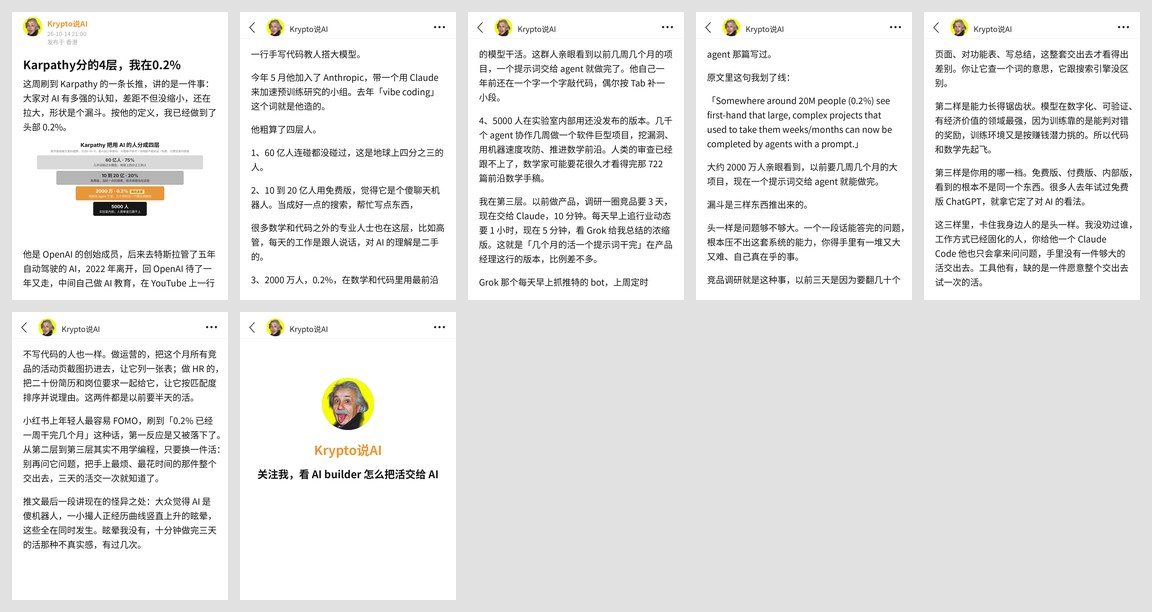
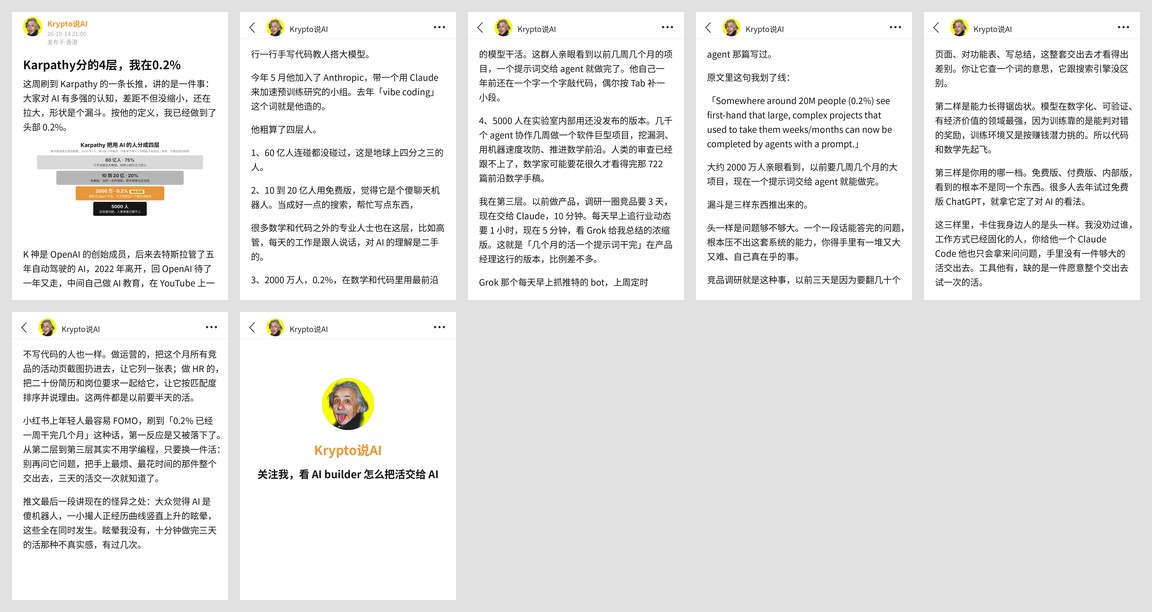
Karpathy 漏斗稿：履历段开头改 K 神
Claude-Session: https://claude.ai/code/session_01QnHH8YpEqNgD4xeX46mZ1k

Changed region(s): [[0.0, 0.4036, 0.1875, 0.4657], [0.2188, 0.0621, 0.3125, 0.0931]]

diff --git a/发布/2026-10-14_karpathy-capability-funnel/meme版/编辑用/draft.md b/发布/2026-10-14_karpathy-capability-funnel/meme版/编辑用/draft.md
@@ -15,7 +15,7 @@ account: Krypto说AI
 
 这周刷到 Karpathy 的一条长推，讲的是一件事：大家对 AI 有多强的认知，差距不但没缩小，还在拉大，形状是个漏斗。按他的定义，我已经做到了头部 0.2%。
 
-他是 OpenAI 的创始成员，后来去特斯拉管了五年自动驾驶的 AI，2022 年离开，回 OpenAI 待了一年又走，中间自己做 AI 教育，在 YouTube 上一行一行手写代码教人搭大模型。
+K 神是 OpenAI 的创始成员，后来去特斯拉管了五年自动驾驶的 AI，2022 年离开，回 OpenAI 待了一年又走，中间自己做 AI 教育，在 YouTube 上一行一行手写代码教人搭大模型。
 
 今年 5 月他加入了 Anthropic，带一个用 Claude 来加速预训练研究的小组。去年「vibe coding」这个词就是他造的。
 
